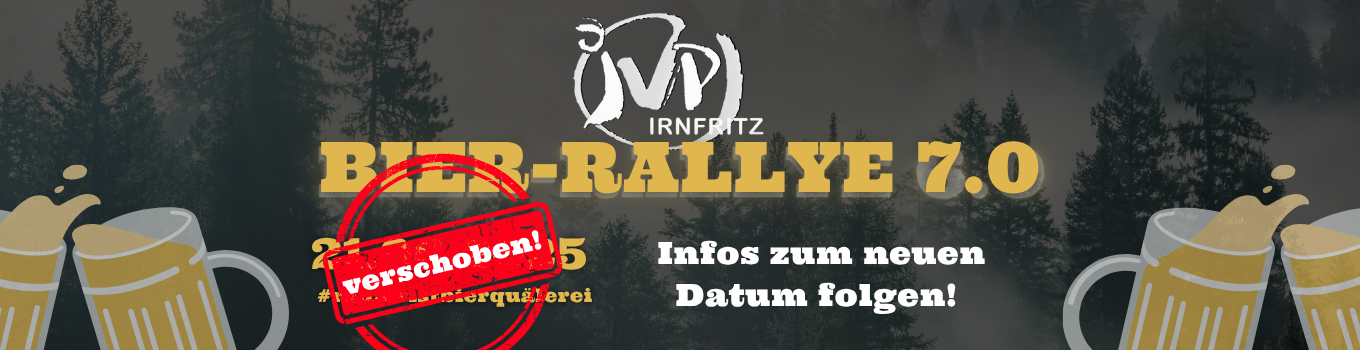
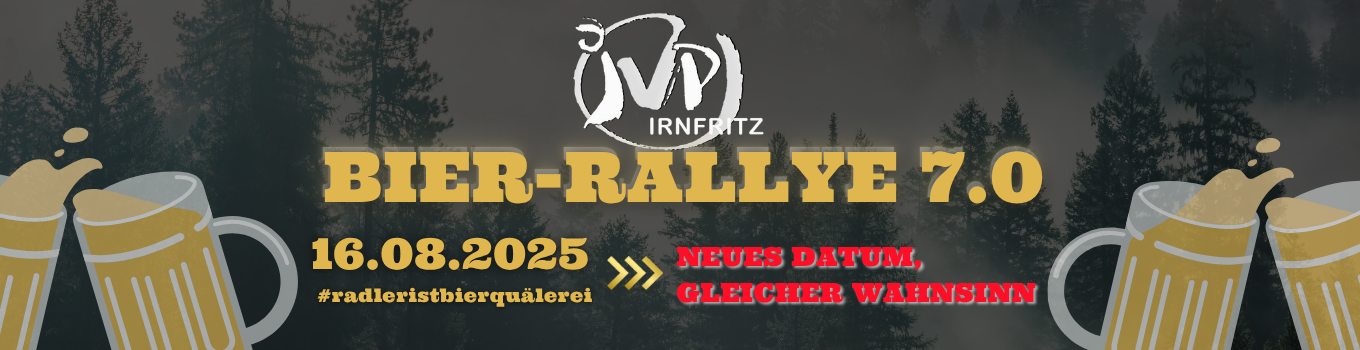
update info about the new date

Changed region(s): [[0.0, 0.3714, 1.0, 1.0], [0.9265, 0.4, 0.9574, 0.4286]]

diff --git a/apps/bierrallye-irnfritz/src/app/info/preparation/exercise-plan/exercise-plan.component.html b/apps/bierrallye-irnfritz/src/app/info/preparation/exercise-plan/exercise-plan.component.html
@@ -9,7 +9,7 @@
       <div class="plan-row">
         <b class="step">1</b>
         <div>
-          <b class="month">Mai: Ausdauer & Koordination</b>
+          <b class="month">Juli: Ausdauer & Koordination</b>
           <p>
             Versorgt eure Freunde im 5 km-Umkreis per Fußmarsch mit vollen
             Bier-/ oder Weinkisten. Helft ihnen anschließend dabei sie zu leeren
@@ -20,7 +20,7 @@
       <div class="plan-row">
         <b class="step">2</b>
         <div>
-          <b class="month">Mai/Juni: Massephase</b>
+          <b class="month">Juli/August: Massephase</b>
           <p>
             Trinkt Massen an Bier und Spritzwein um euren Körper auch von innen
             optimal auf den Wettkampf vorzubereiten
@@ -30,7 +30,7 @@
       <div class="plan-row">
         <b class="step">3</b>
         <div>
-          <b class="month">Juni: Abschlussvorbereitungen</b>
+          <b class="month">August: Abschlussvorbereitungen</b>
           <p>
             Plant euren Team-Auftritt und übt eure Siegesposen! Ein stabiles
             Mindset ist schon der halbe Gewinn.

diff --git a/apps/bierrallye-irnfritz/src/app/info/event-info/event-info.component.html b/apps/bierrallye-irnfritz/src/app/info/event-info/event-info.component.html
@@ -1,7 +1,36 @@
 <mat-card appearance="outlined">
   <mat-card-content class="description">
-    <b>!!! VERSCHOBEN !!!</b>
-    <b>SOCIAL MEDIA/EMAILS</b>
-    <b>CHECKEN</b>
+    <b>SAMSTAG, 16. August 2025</b>
+    <b>AB 13 Uhr</b>
+    <b>SPORTPLATZ IRNFRITZ</b>
+    @switch (featureService.activeFeature()) {
+      @case ('REGISTRATION') {
+        <button
+          mat-flat-button
+          class="secondary-button"
+          routerLink="/registration"
+        >
+          zur Anmeldung
+        </button>
+      }
+      @case ('LIVE_TRACKING') {
+        <button
+          mat-flat-button
+          class="secondary-button"
+          routerLink="/racing/overview"
+        >
+          zum Live-Tracking
+        </button>
+      }
+      @case ('EVALUATION') {
+        <button
+          mat-flat-button
+          class="secondary-button"
+          routerLink="/racing/evaluation"
+        >
+          zur Auswertung
+        </button>
+      }
+    }
   </mat-card-content>
 </mat-card>
